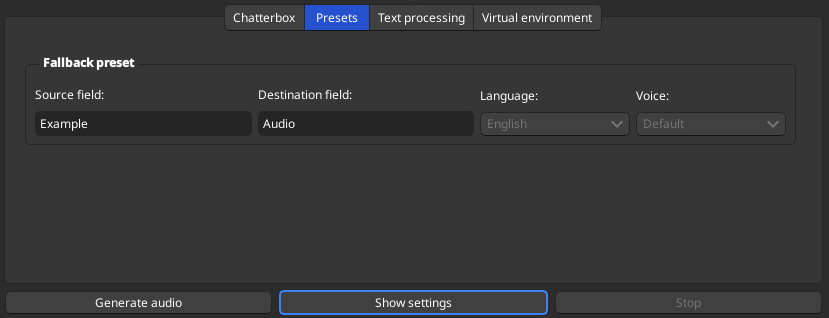
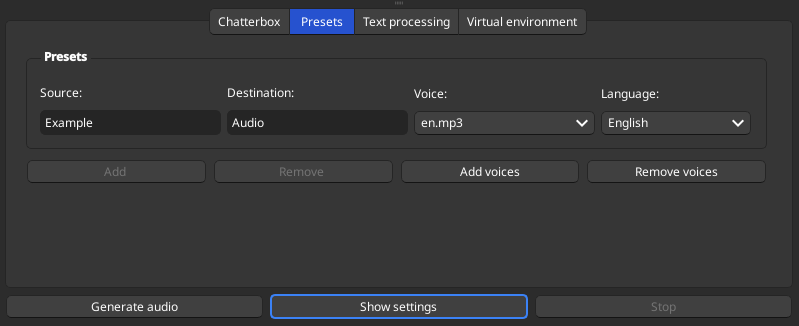
update img

diff --git a/__init__.py b/__init__.py
@@ -128,7 +128,7 @@ class Preview(QDialog):
 
         ######## Presets ##############################
 
-        ### Fallback preset
+        # Fallback preset
         self.ui.le_source.setText(cfg.fallback_src)
         self.ui.le_dest.setText(cfg.fallback_dst)
 
@@ -151,16 +151,14 @@ class Preview(QDialog):
         )
         self.ui.cb_lang.setCurrentText(cfg.fallback_lang)
 
-        print(f"\n{type(self).__name__} children: ", len(parent.findChildren(Preview)))
-
         ######## Text Processing ##############################
 
         # the table view will call the data() method of the model
         self.ui.tbl_regex.setModel(self.regex_model)
+
         self.ui.tbl_regex.resizeColumnsToContents()
         self.ui.tbl_regex.horizontalHeader().setStretchLastSection(True)
 
-        # we can trigger the update just by getting the table focus
         self.regex_model.dataChanged.connect(
             lambda: self.preview_model.refresh_data(self.note_ids)
         )
@@ -196,6 +194,9 @@ class Preview(QDialog):
             # Windows or OSx don't have full ROCm support as far as I know
             self._hsa_visibility(False)
             self.ui.hor_layout_hsa.setEnabled(False)
+
+        # How many children check
+        print(f"\n{type(self).__name__} children: ", len(parent.findChildren(Preview)))
 
     ############################## Dialog ##############################
 
@@ -447,10 +448,10 @@ class Preview(QDialog):
             lambda: setattr(cfg, parameter, round(spinbox.value(), 2))
         )
 
-        self._sync_slider_to_spinbox(slider, spinbox)
+        self._link_slider_to_spinbox(slider, spinbox)
 
     @staticmethod
-    def _sync_slider_to_spinbox(
+    def _link_slider_to_spinbox(
         slider: QSlider, spinbox: QDoubleSpinBox, factor: float = 100.0
     ):
         """Links an integer slider and a double spinbox with a scaling factor."""

diff --git a/designer/dialog.py b/designer/dialog.py
@@ -363,8 +363,8 @@ class Ui_Dialog(object):
         self.cb_lang.setItemText(20, _translate("Dialog", "Korean"))
         self.cb_lang.setItemText(21, _translate("Dialog", "Dutch"))
         self.cb_lang.setItemText(22, _translate("Dialog", "Malay"))
-        self.pushButton.setText(_translate("Dialog", "Add preset"))
-        self.pushButton_2.setText(_translate("Dialog", "Remove preset"))
+        self.pushButton.setText(_translate("Dialog", "Add "))
+        self.pushButton_2.setText(_translate("Dialog", "Remove "))
         self.btn_add_voice.setText(_translate("Dialog", "Add voices"))
         self.btn_remove_voice.setText(_translate("Dialog", "Remove voices"))
         self.tabSettings.setTabText(self.tabSettings.indexOf(self.tb_presets), _translate("Dialog", "Presets"))
